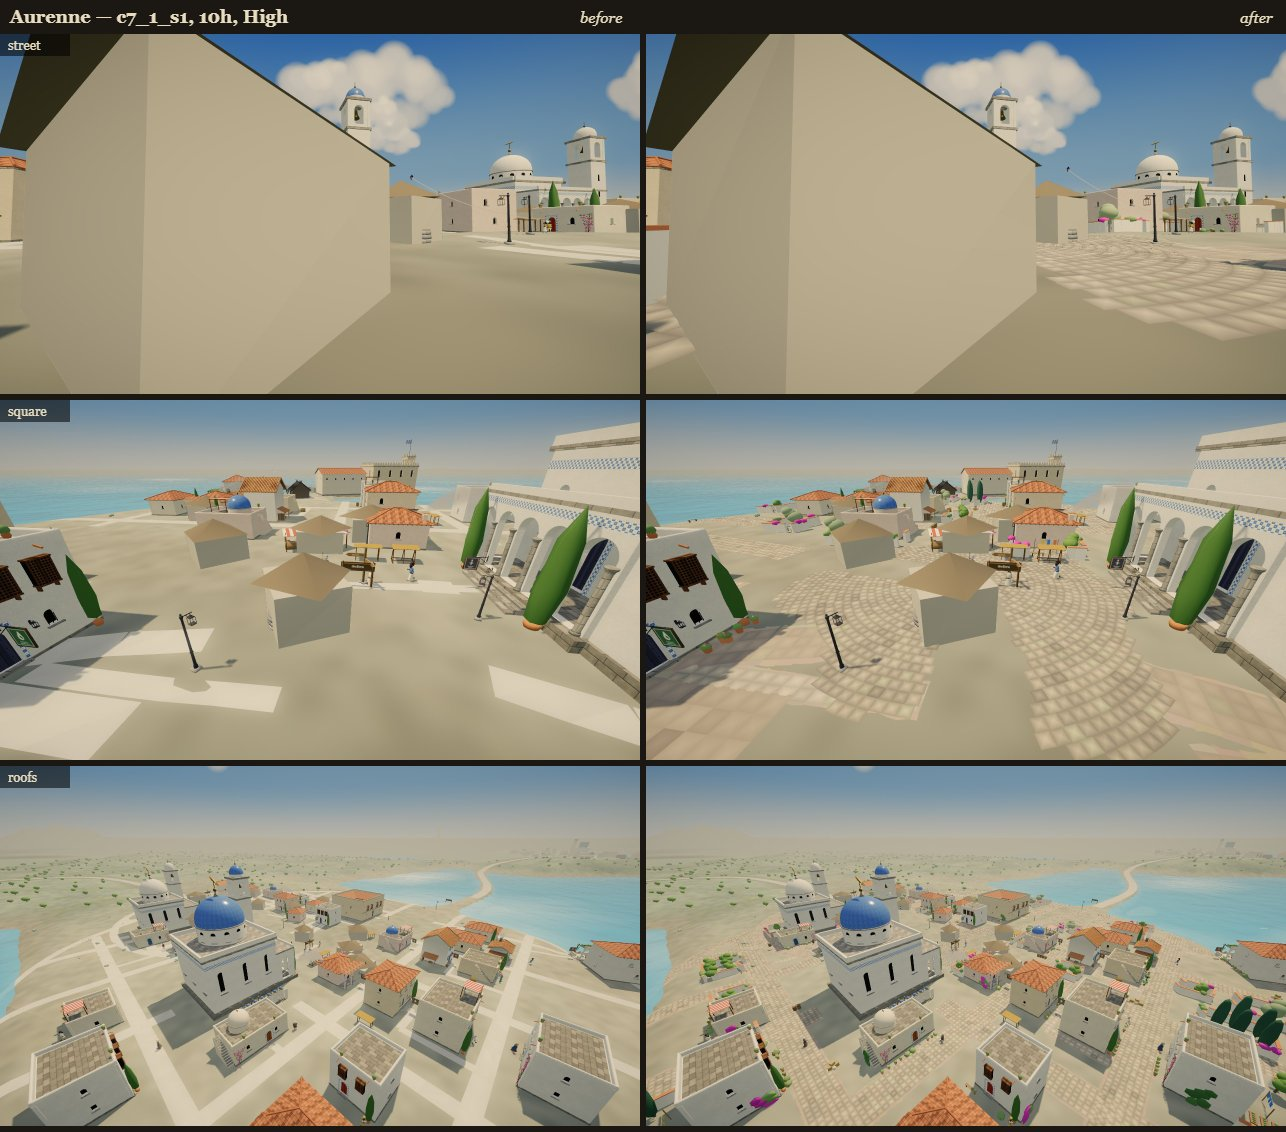
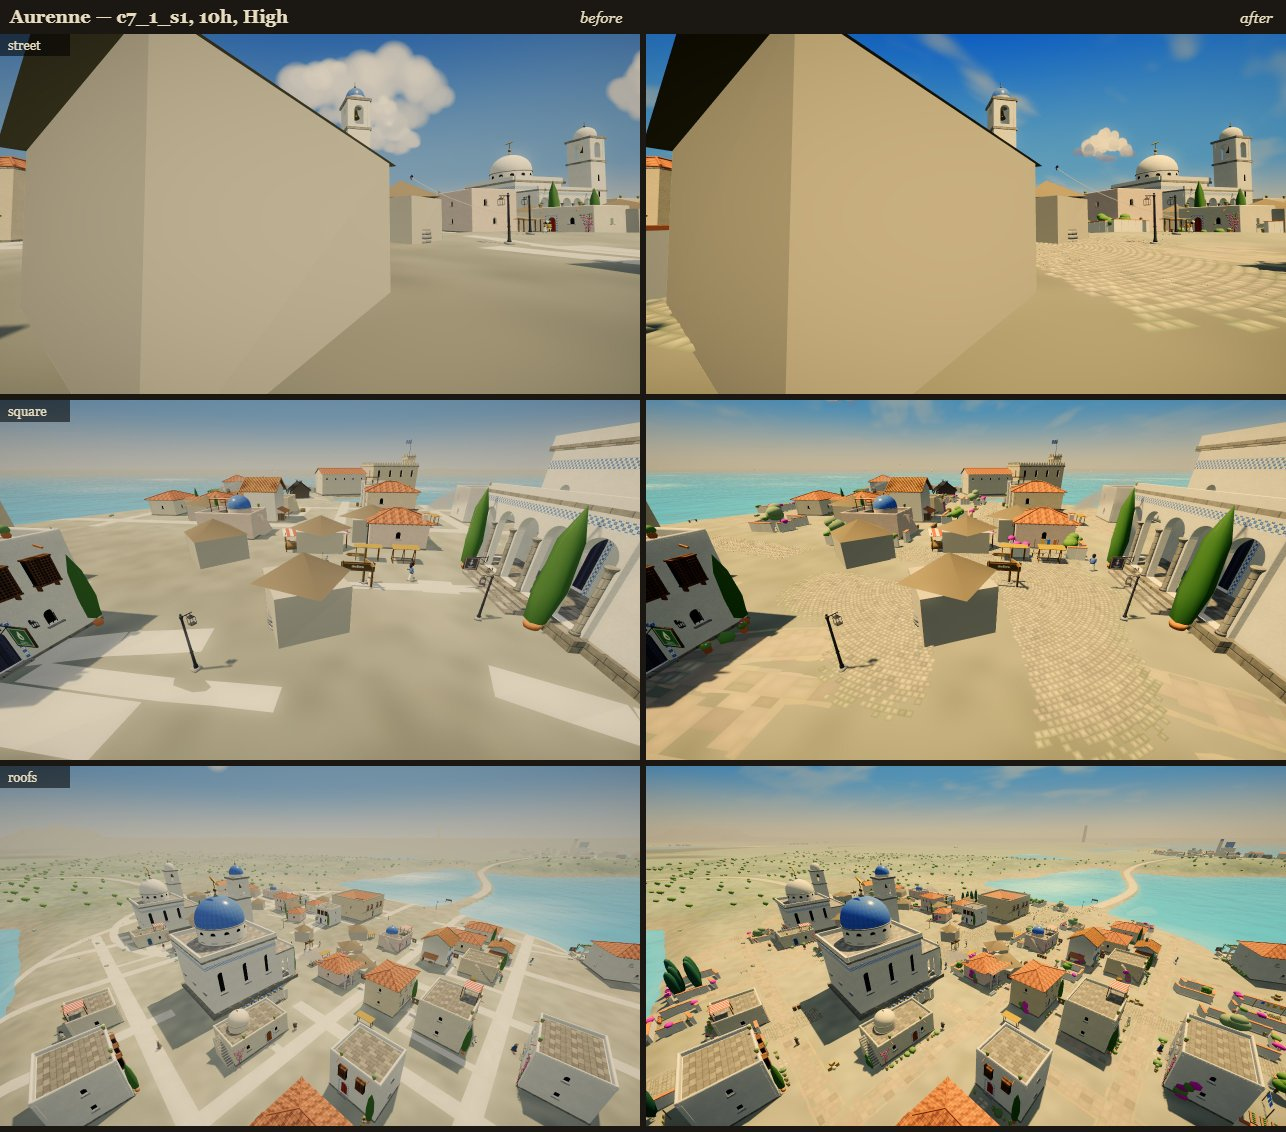
Towns dressed (S2670): setts at 0.3 m, the square over the main street, the road clean-edged across it; sheets re-shot

diff --git a/js/82-world-structures.js b/js/82-world-structures.js
@@ -1754,7 +1754,7 @@
       for(let i=0;i<pts.length-1;i++){
         const mx=(pts[i].x+pts[i+1].x)/2,mz=(pts[i].z+pts[i+1].z)/2;
         if(mx<ox||mx>=ox+CHUNK||mz<oz||mz>=oz+CHUNK)continue;
-        const T=tdrTownAt(mx,mz);if(T){const st=tdrStyle(isleAt(T.x,T.z),'sett');st.y=.07;st.verge=0;st.band=.5;paved.A.N.length=0;tdrStrip(paved,pts[i],pts[i+1],W,st,seededRng(T.id,'dress:road:'+Math.round(mx)+','+Math.round(mz)),new Map());continue;}
+        const T=tdrTownAt(mx,mz);if(T){const st=tdrStyle(isleAt(T.x,T.z),'sett');st.y=.07;st.verge=0;st.band=Math.hypot(mx-T.x,mz-T.z)<26?0:.5; /* clean-edged across the square, which meets it */paved.A.N.length=0;tdrStrip(paved,pts[i],pts[i+1],W,st,seededRng(T.id,'dress:road:'+Math.round(mx)+','+Math.round(mz)),new Map());continue;}
         addQuad(pts[i],pts[i+1],pts,i);
       }
     }
@@ -3588,10 +3588,10 @@
   /* the ground's styles (S2670, Michael's "tone paving down first"): setts small and uneven on the square and the main streets, worn earth
      everywhere else people walk, flags at the doors */
   function tdrStyle(isle,kind){const P=TDR_PAL[isle]||TDR_PAL.gatelands,c=h=>new THREE.Color(h);
-    if(kind==='street'||kind==='sett')return {cl:.38,cw:.36,vary:.3,y:.055,dome:.03,jit:.38,hi:1.05,lo:.5,moss:.3,band:.75,gap:.5,tone:c(P.sett),earth:c(P.earth),verge:.55};
+    if(kind==='street'||kind==='sett')return {cl:.3,cw:.29,vary:.3,y:.055,dome:.03,jit:.38,hi:1.05,lo:.5,moss:.3,band:.75,gap:.5,tone:c(P.sett),earth:c(P.earth),verge:.55};
     if(kind==='earth')return {cl:1.1,cw:.9,vary:.35,y:.05,dome:0,jit:.14,hi:1,lo:.92,moss:.15,band:.6,gap:.75,tone:c(P.earth),earth:c(P.earth),verge:.6};
     if(kind==='flag')return {cl:.6,cw:.7,vary:.2,y:.065,dome:.015,jit:.22,hi:1.04,lo:.66,moss:.2,band:0,gap:0,tone:c(P.flag),earth:c(P.earth),verge:0};
-    return {cl:.4,cw:.4,vary:.25,y:.075,dome:.03,jit:.38,hi:1.04,lo:.5,moss:.3,band:0,gap:0,tone:c(P.sett).multiplyScalar(.94),earth:c(P.earth),verge:0};}
+    return {cl:.3,cw:.31,vary:.25,y:.075,dome:.03,jit:.38,hi:1.04,lo:.5,moss:.3,band:0,gap:0,tone:c(P.sett).multiplyScalar(.94),earth:c(P.earth),verge:0};}
   /* pieces: each puts its parts on D at (x,z), turned ry, on the ground at y, from the stream r; `far` lays the far copy too */
   const TDR_R={woodpile:1.3,peat:1.3,butt:.55,barrels:1.5,crates:1.4,trough:.95,grindstone:.6,table:1.3,cart:1.75,coop:.8,jars:1.3,rick:2,logs:2.4,shed:2.75}; /* a piece's reach from its middle to its footprint's far corner, kept off the doors */
   const TDR_PIECE={
@@ -3777,14 +3777,14 @@
       const wob=a=>sq*(1+.1*Math.sin(a*3+site.x*.01)+.07*Math.sin(a*7+site.z*.01));
       /* the square in rings round the well; its edge wanders (wob), goes ragged and mossy over its last 1.6 m, and stops at a building, a plot or a road */
       {const st=pv?tdrStyle(isle,'square'):Object.assign(tdrStyle(isle,'earth'),{y:.075,cl:.9,cw:.9}),A=D.list('g',cx,cz),y0=st.y;
-        const skipQ=(x,z,a)=>{if(Math.hypot(x-cx,z-cz)>wob(a))return true;if(onSol(x,z)||inPlot(x,z))return true;const ri=roadInfo(x,z);return !!ri&&ri.d<ROAD_HALF*.85+.2;};
+        const skipQ=(x,z,a)=>{if(Math.hypot(x-cx,z-cz)>wob(a))return true;if(onSol(x,z)||inPlot(x,z))return true;const ri=roadInfo(x,z);return !!ri&&ri.d<ROAD_HALF*.85-.05;};
         const H=(x,z)=>[x,tdrH(x,z)+y0,z];
         for(let rr=.9;rr<sq*1.25;){const dr=st.cl*(1+(r()-.5)*.3),n=Math.max(8,Math.round(2*Math.PI*(rr+dr/2)/st.cw)),ph=r()*Math.PI*2;
           for(let k=0;k<n;k++){const a0=ph+k/n*Math.PI*2,a1=ph+(k+1)/n*Math.PI*2,am=(a0+a1)/2,rm=rr+dr/2,mx=cx+Math.cos(am)*rm,mz=cz+Math.sin(am)*rm;if(skipQ(mx,mz,am))continue;
             const e=Math.max(0,Math.min(1,(rm-(wob(am)-1.6))/1.6));if(e>0&&r()<e*.55)continue;
             tdrCell(A,[H(cx+Math.cos(a0)*rr,cz+Math.sin(a0)*rr),H(cx+Math.cos(a0)*(rr+dr),cz+Math.sin(a0)*(rr+dr)),H(cx+Math.cos(a1)*(rr+dr),cz+Math.sin(a1)*(rr+dr)),H(cx+Math.cos(a1)*rr,cz+Math.sin(a1)*rr)],st,r,e);}
           rr+=dr;}}
-      const skipS=(x,z)=>{if(onSol(x,z))return true;const ri=roadInfo(x,z);return !!ri&&ri.d<ROAD_HALF*.85+.1;};
+      const skipS=(x,z)=>{if(onSol(x,z))return true;if(Math.hypot(x-cx,z-cz)<wob(Math.atan2(z-cz,x-cx))-.2)return true; /* the square is laid over it */const ri=roadInfo(x,z);return !!ri&&ri.d<ROAD_HALF*.85+.1;};
       const mainLine=p=>{if(!pv||(p.w||0)<2.3)return false;const a=p.pts[0],b=p.pts[p.pts.length-1],L=Math.hypot(b.x-a.x,b.z-a.z)||1;return Math.abs((cx-a.x)*(b.z-a.z)-(cz-a.z)*(b.x-a.x))/L<7;};
       const sett=tdrStyle(isle,'sett'),earth=tdrStyle(isle,'earth');stats.mainStreets=0;
       (S.paths||[]).forEach((p,pi)=>{if(!p||!p.pts||p.pts.length<2)return;const main=mainLine(p),street=(p.w||0)>=2,st=main?sett:earth,Wd=main?2.15:street?p.w/2+.15:(p.w||1.3)/2-.05;if(main)stats.mainStreets++;

diff --git a/docs/devlog/2670.md b/docs/devlog/2670.md
@@ -32,13 +32,15 @@ every draw the town made, so no name, barrel or person moves, and a reload lays 
   to 9 by 7 m. Each is a kitchen garden, an orchard (apples; lemons in Aurenne), a work yard (a shed, a woodpile, a cart), a paddock with a
   rick and a trough, a birch grove in the Mark, or a courtyard with an olive, jars and pots in Aurenne. Each is walled as the island walls,
   with its gate toward the town's middle, up to 0.7 of the town's houses in number.
-- **The ground.** The streets are laid in setts, each a low dome with its middle lit and its joints dark, and are widened from 2.4 m to
-  4.3 m in a town so they meet the house fronts. The footpaths are flagged. The square is laid in rings round the well, out to its third
-  nearest building's frontage (9 m to 22 m), with a wandering edge, and it stops at a building, a plot (the church yard keeps its grass;
-  the market house's square is paved) or a road. A road through a paved town is laid in the same setts (`buildRoadRibbons`, `tdrTownAt`).
-  Each strip has a worn verge whose outer edge dips 3 cm to 10 cm under the turf, so where it comes up is ragged. Villages get earth instead
-  of setts. All of it is vertex colour on `VC_MAT`'s own geometry, never a tint of the material. The old flat ribbon of the paths is removed
-  once the pass has run, and the ground leaves the snow's list with its town (`disposeSettlement`).
+- **The ground** (as toned down after Michael's look at the first sheets; see below). The square is laid in rings round the well, out to its
+  third-nearest building's frontage (9 m to 22 m), with a wandering edge that goes ragged and mossy over its last 1.6 m. It stops at a
+  building, a plot (the church yard keeps its grass; the market house's square is paved) or a road. The main streets, the ones through the
+  town's middle (within 7 m of it), are laid in small setts 4.3 m wide so they meet the house fronts. So is a road through a paved town
+  (`buildRoadRibbons`, `tdrTownAt`), with clean edges across the square. Every other street, the ring lane and the footpaths are worn earth
+  tracks, and each door has four flags before it. Strips have a worn verge whose outer edge dips 3 cm to 10 cm under the turf, so where it
+  comes up is ragged. Villages are earth throughout, their squares too. All of it is vertex colour on `VC_MAT`'s own geometry, never a tint of
+  the material. The old flat ribbon of the paths is removed once the pass has run, and the ground leaves the snow's list with its town
+  (`disposeSettlement`).
 - **Kept clear.** Nothing solid goes within 2.2 m of a door, its step-out point or a standing townsperson, and nothing soft within 1.25 m.
   Nothing goes on a road, a walk (`S.paths`, the footpaths included), a plot, a rack, a garden, a ring, a stall or the ring lane, or in the sea.
   The walls, sheds, ricks, carts, stacks and trees are solids (`dress:true`; the walls also `bt:'wall'`, so the local map draws them as walls).
@@ -47,6 +49,17 @@ every draw the town made, so no name, barrel or person moves, and a reload lays 
   `houseLod`'s rule through `S.lodMeshes` with `dress:` keys, so nothing else's twin is taken), far (`'lo'`: the walls as one box per run, the
   sheds, ricks and trees as boxes and blobs), and the ground (always drawn, no shadow cast). A town adds about 30 meshes, a third of them in
   view at once.
+
+**Paving toned down** (Michael on the first sheets, carried by the producer's session: "Tone paving down first"). He saw what read as
+oversized, even floor tiles laid wall to wall: every street was setts edge to edge, so from the roofs the Gatelands' centre went grey and the
+town lost its green. He liked the squares. Now:
+- Only the square, the main streets and the doorsteps are paved; the rest is earth with grass at its margins.
+- The setts are about 0.3 m (0.7 m before). Each strip is laid in courses of varied length with staggered joints, so it is no longer a grid.
+- Each stone's tone varies more, with an odd dark, pale or green one among them.
+- Moss sits in the joints, and more toward the edges, where stones go missing and the turf shows.
+- The same restraint holds in the Mark and Aurenne, each in its own stone.
+- A main street now stops at the square, whose stones lie over it: its domed stones poked through the square's joints.
+The hedges are noted, not changed, this round.
 
 **Lots.** I did not tighten the lots. A house's id is its lot's place in the town's layout (S243), and saves key your house, its garden and
 its racks by that id, so moving the lots moves every id. The plots and the frontage walls fill the gaps instead. This is raised below.
